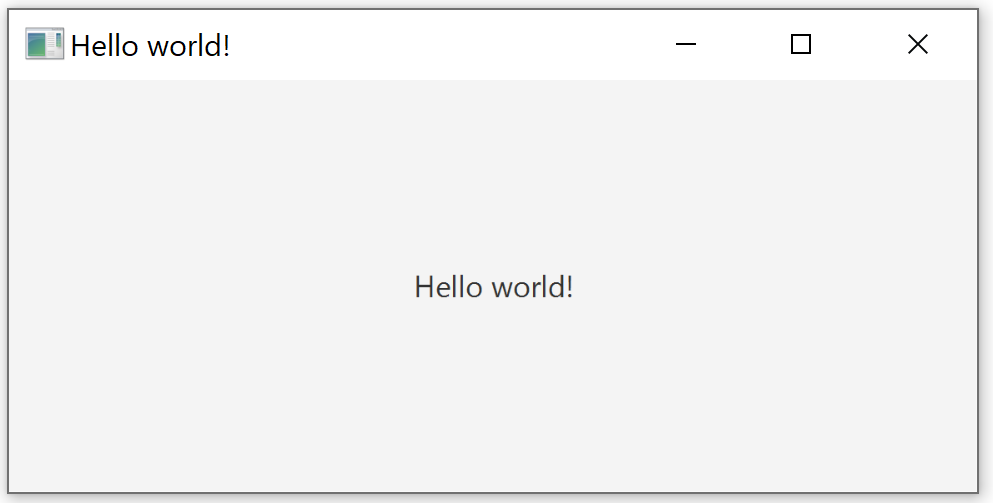
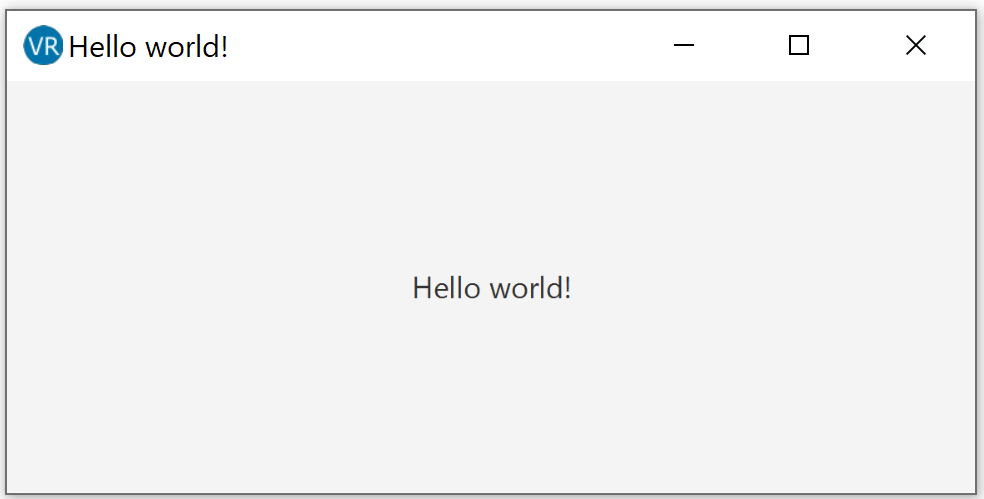
Updated java fx hello world article

diff --git a/drafts/javafx/javafx-hello-world/index.md b/drafts/javafx/javafx-hello-world/index.md
@@ -97,6 +97,16 @@ Not very impressive, right? First, lets add some nice caption to our window.
 primaryStage.setTitle("Hello world Application");
 ```
 
+To make it look even better, let's add a nice icon to the window top bar:
+
+```java
+InputStream iconStream = getClass().getResourceAsStream("/icon.png");
+Image image = new Image(iconStream);
+primaryStage.getIcons().add(image);
+```
+
+You can add multiple icons. That is, multiple sizes of the same icon representing the application. Depending on the context, the best size for your application will be used.
+
 Now you can configure the Stage object's properties and behaviour such as:
 - Setting position using `setX()` and `setY()`
 - Setting initial size using `setWidth()` and `setHeight()`
@@ -133,6 +143,10 @@ public void start(Stage primaryStage) throws Exception {
     primaryStage.setTitle("Hello world Application");
     primaryStage.setWidth(300);
     primaryStage.setHeight(200);
+
+    InputStream iconStream = getClass().getResourceAsStream("/icon.png");
+    Image image = new Image(iconStream);
+    primaryStage.getIcons().add(image);
 
     Label helloWorldLabel = new Label("Hello world!");
     helloWorldLabel.setAlignment(Pos.CENTER);
